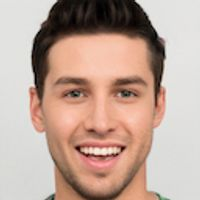
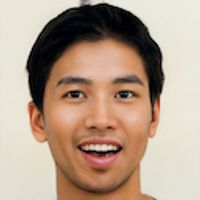
added

diff --git a/apicontroller/block.js b/apicontroller/block.js
@@ -69,6 +69,7 @@ async function readBlocks(req, res) {
         });
 
     } catch (error) {
+        console.log(error)
         req.log.error(error); 
         res.status(500).send(error.message)
     }
@@ -107,7 +108,7 @@ async function readBlockById(req, res) {
     }
 }
 
-async function readBlockFloorBlockCodeCount(req, res) {
+async function readBlockFloorBlockCodeCount(req, res) { 
     const mysqlClient = req.app.mysqlClient;
     const blockId = req.query.blockId;
     try {
@@ -143,7 +144,6 @@ async function readBlockFloorBlockCodeCount(req, res) {
 async function readBlockAttendancePercentage(req, res) {
     const mysqlClient = req.app.mysqlClient
     const blockId = req.query.blockId
-    console.log(blockId)
     try {
         const blockCount = await mysqlQuery(/*sql*/`SELECT COUNT(*) AS count FROM student WHERE blockId = ?`,
             [blockId], mysqlClient)

diff --git a/apicontroller/blockfloor.js b/apicontroller/blockfloor.js
@@ -301,13 +301,11 @@ async function validatePayload(body, isUpdate = false, blockFloorId = null, mysq
     } = body
 
     const errors = []
-
     if (blockId !== undefined) {
-        if (isNaN(blockId) || blockId <= 0)
+        if (isNaN(blockId) || blockId <= 0) {
             errors.push('BlockId is invalid')
-        } else {
-            errors.push('BlockId is missing')
         }
+    }
 
     if (floorNumber !== undefined) {
         if (isNaN(floorNumber) || floorNumber <= 0) {

diff --git a/app.js b/app.js
@@ -179,7 +179,6 @@ studentApp.use((req, res, next) => {
     if (pageStudentSessionExclude.includes(req.originalUrl)) {
         return next()
     }
-    console.log(req.session.isLoggedStudent)
     if (req.originalUrl !== '/student/login/') {
         if (req.session.isLoggedStudent !== true) {
             return res.status(401).send('Session expired.')
